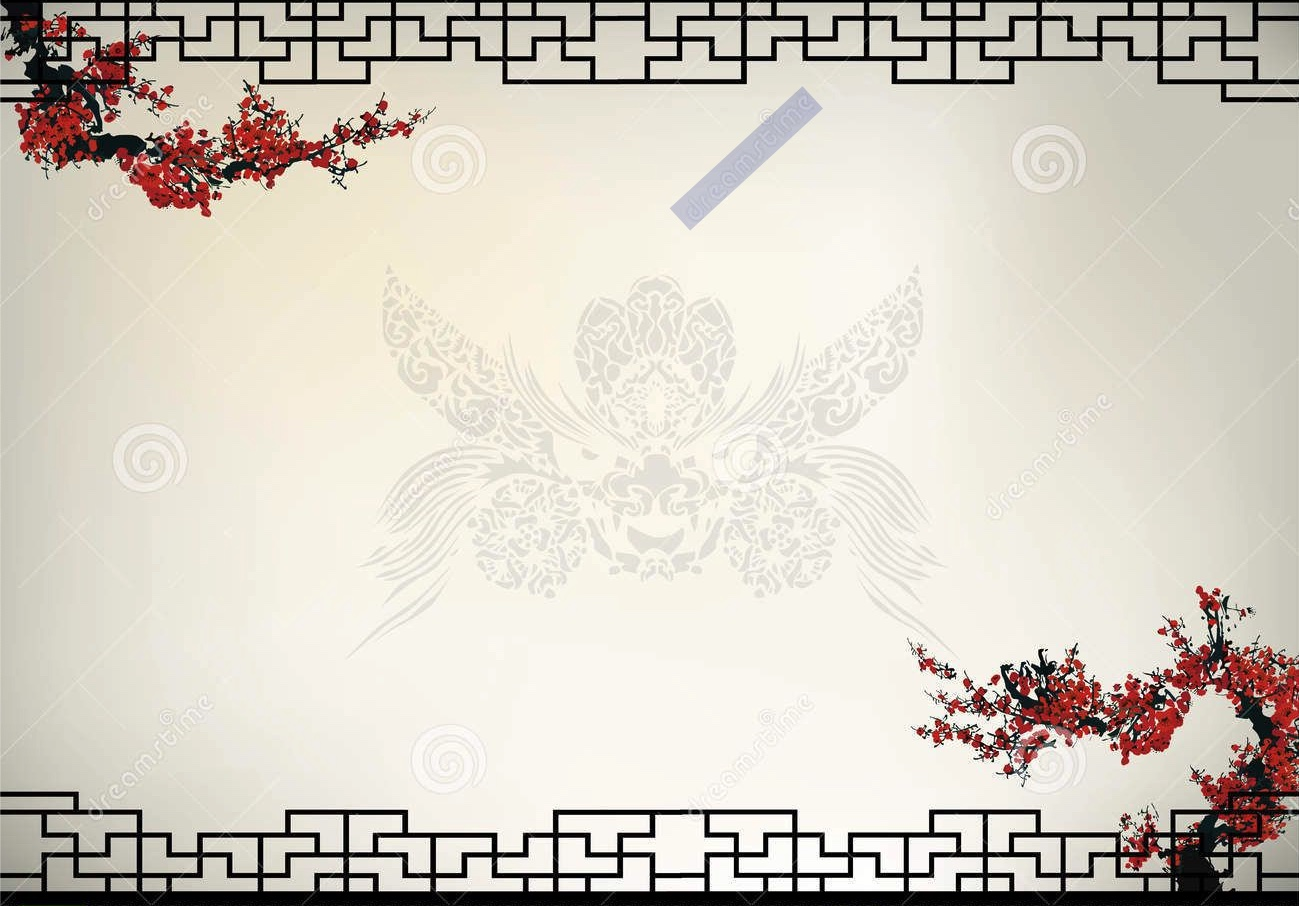
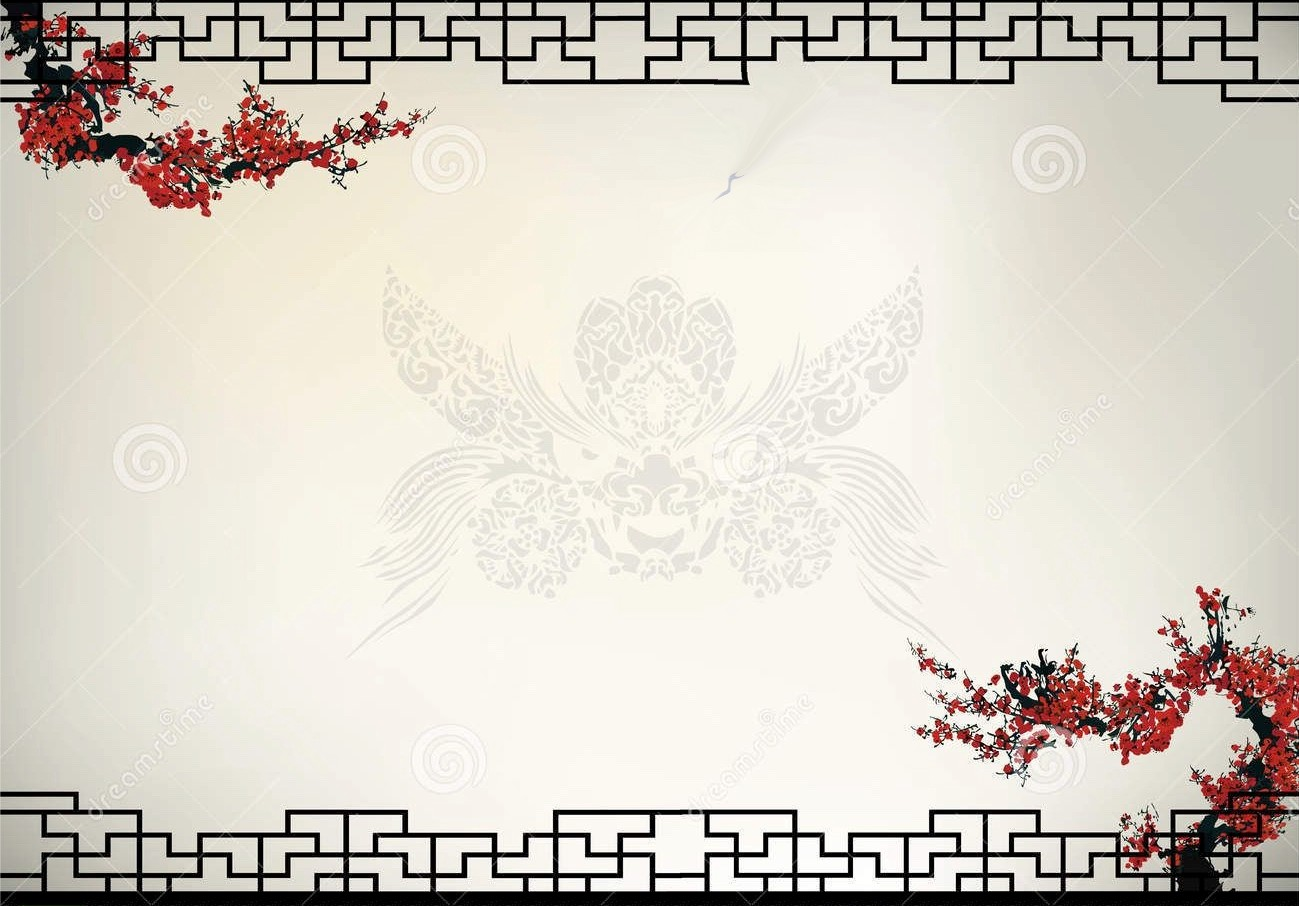
Alter bg.jpg images

Changed region(s): [[0.5235, 0.0927, 0.6467, 0.2472]]

diff --git a/assets/css/style.css b/assets/css/style.css
@@ -4,9 +4,29 @@
     border: 0;
 }
 
+body,
+html {
+    height: 100%;
+}
+
 body {
     font-family: Lato, sans-serif;
     color: #3a3a3a;
+}
+
+
+
+.bg {
+    /* The image used */
+    background-image: url("../images/bg.jpg");
+
+    /* Full height */
+    height: 100%;
+
+    /* Center and scale the image nicely */
+    background-position: center;
+    background-repeat: repeat;
+    background-size: cover;
 }
 
 /* headings and logo */
@@ -120,7 +140,7 @@ p {
     background-size: cover;
     background-position: center;
     width: 100%;
-    height: 600px;
+    height: 300px;
     margin-left: 10px;
     overflow: hidden;
 }
@@ -139,7 +159,7 @@ p {
     background-size: cover;
     background-position: center;
     width: 100%;
-    height: 600px;
+    height: 300px;
     margin-left: 10px;
     overflow: hidden;
 }
@@ -155,7 +175,7 @@ p {
     background-size: cover;
     background-position: center;
     width: 100%;
-    height: 600px;
+    height: 300px;
     margin-left: 10px;
     overflow: hidden;
 }
@@ -197,7 +217,7 @@ footer {
 
 #contact_form_section {
     clear: left;
-    background: url("../images/Semi-cascading-style.jpg") no-repeat center center;
+    /*background: url("../images/Semi-cascading-style.jpg") no-repeat center center;*/
     background-size: cover;
     background-position: center;
     height: 900px;

diff --git a/types_bonsai.html b/types_bonsai.html
@@ -10,7 +10,7 @@
     <title>Bonsai Project</title>
 </head>
 
-<body>
+<body class="bg">
     <header>
         <a href="index.html">
             <h1 id="logo">Bonsai Project</h1>
@@ -28,7 +28,7 @@
                 </li>
             </ul>
         </nav>
-        <div id="splitter"></div>
+        <!--<div id="splitter"></div>-->
     </header>
     <section id="bonsai_type">
         <h2 id="welcome">Types of bonsai</h2>

diff --git a/contact_form.html b/contact_form.html
@@ -10,7 +10,7 @@
     <title>Bonsai Project</title>
 </head>
 
-<body>
+<body class="bg">
     <header>
         <a href="index.html">
             <h1 id="logo">Bonsai Project</h1>
@@ -28,7 +28,7 @@
                 </li>
             </ul>
         </nav>
-        <div id="splitter"></div>
+        <!--<div id="splitter"></div>-->
     </header>
     <section id="contact_form_section">
         <div>

diff --git a/index.html b/index.html
@@ -10,7 +10,7 @@
     <title>Bonsai Project</title>
 </head>
 
-<body>
+<body class="bg">
     <header>
         <a href="index.html">
             <h1 id="logo">Bonsai Project</h1>
@@ -28,7 +28,7 @@
                 </li>
             </ul>
         </nav>
-        <div id="splitter"></div>
+        <!--<div id="splitter"></div>-->
     </header>
     <section id="bonsai_about">
         <div>
